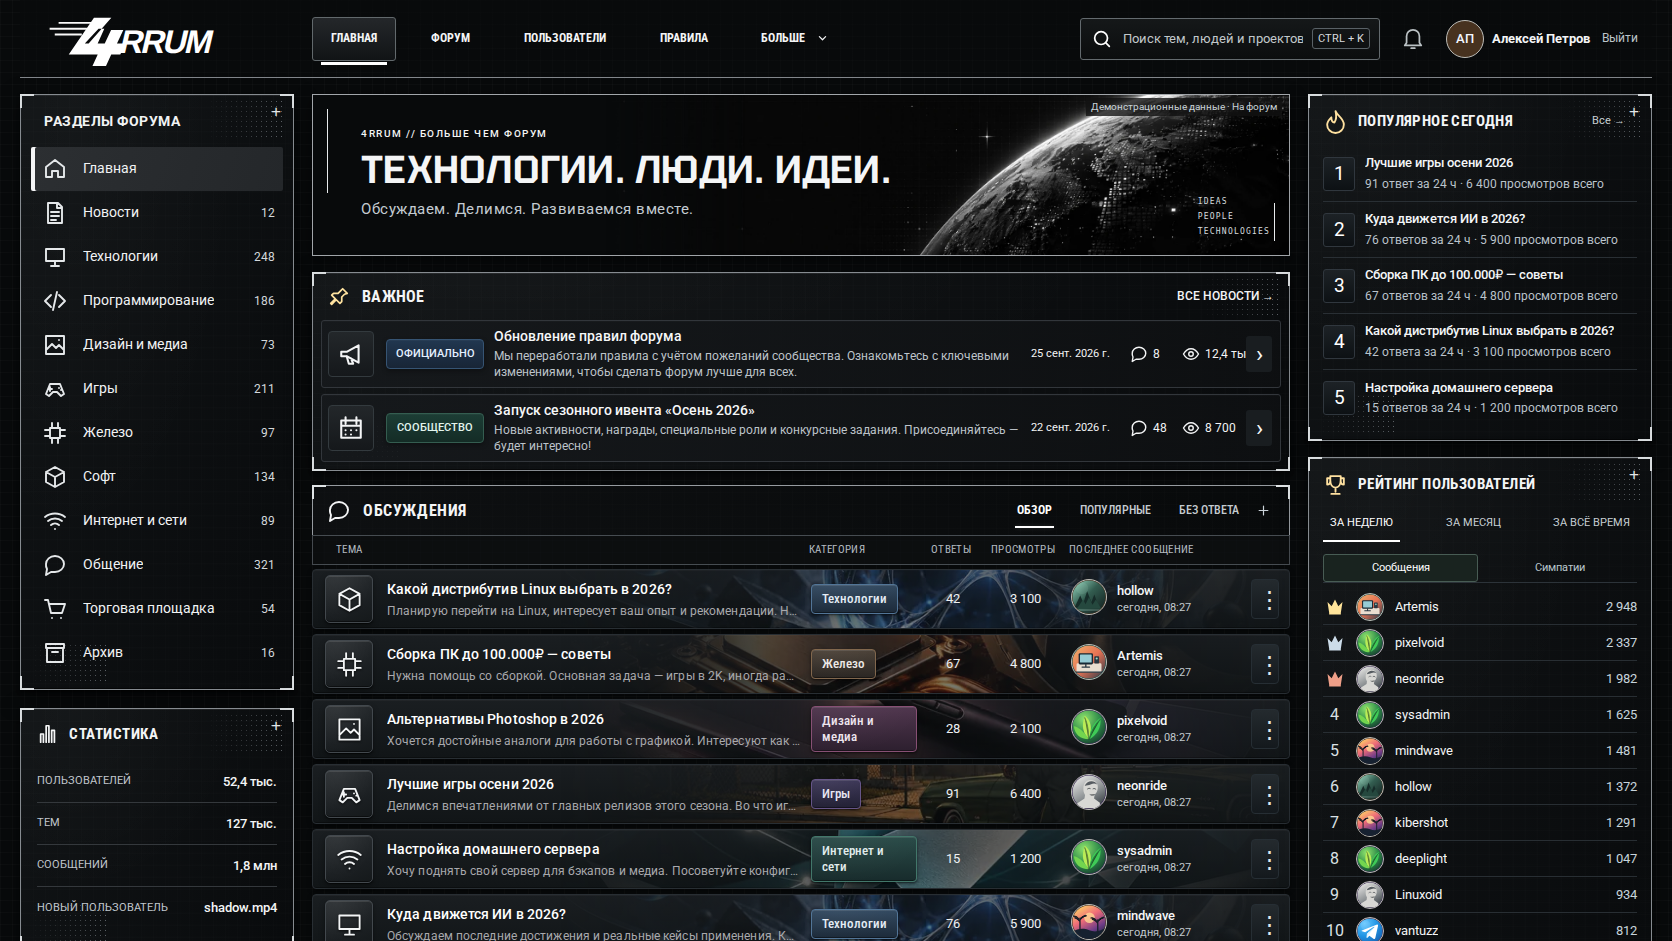
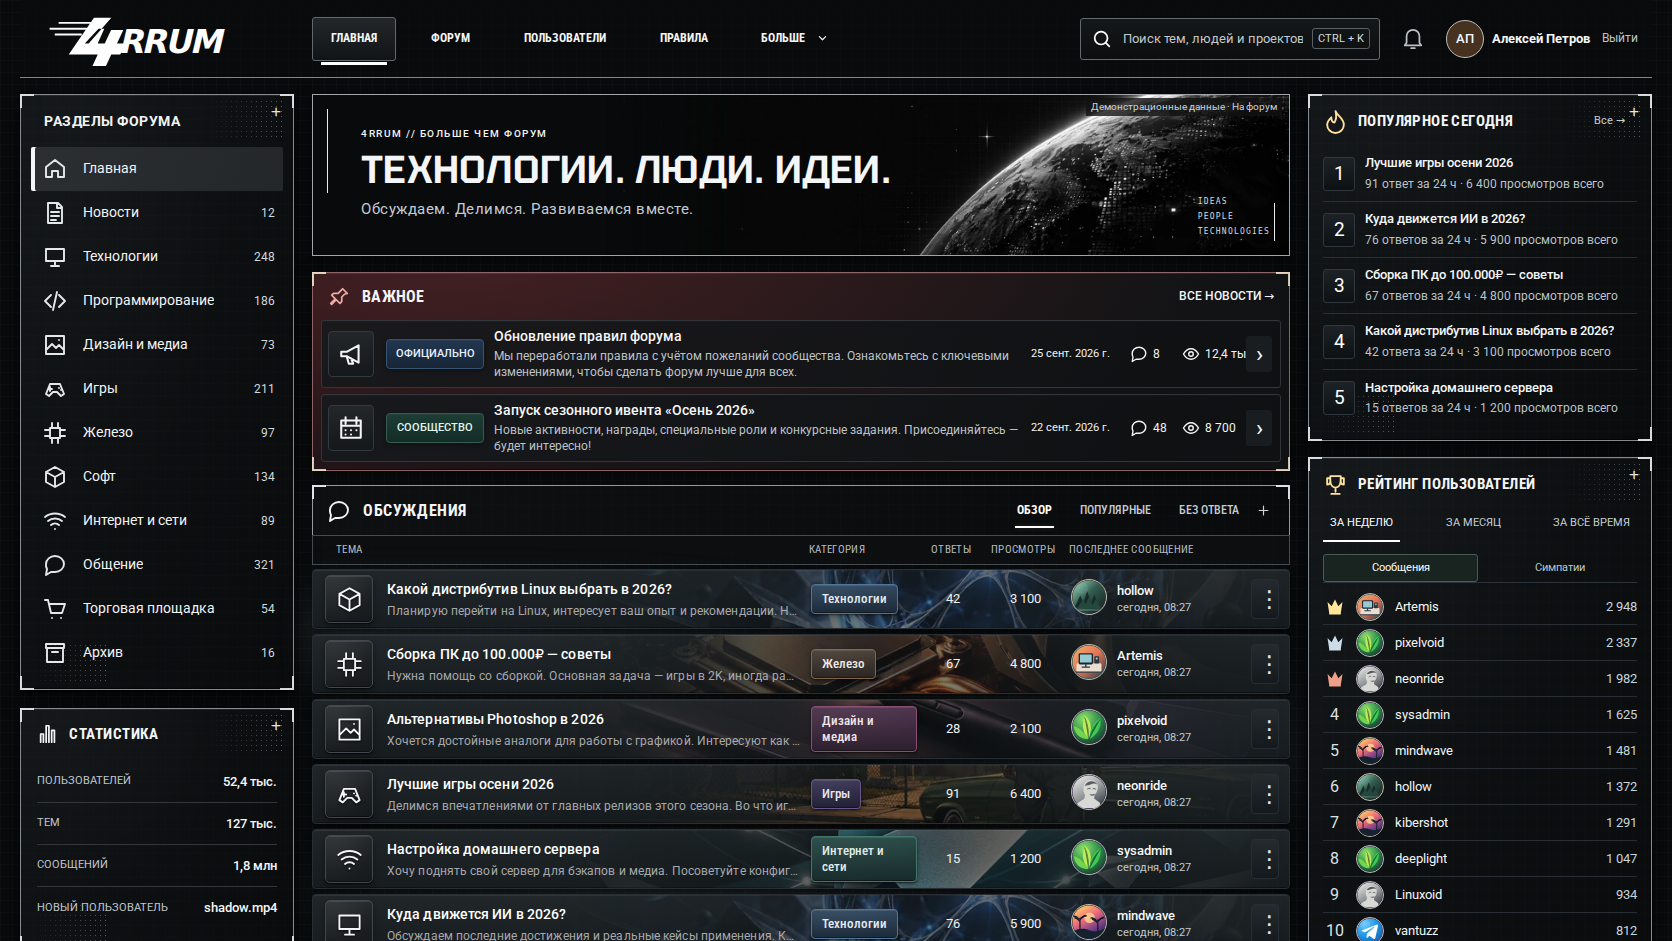
Add restrained red emphasis and diffuse light to forum feed

Changed region(s): [[0.1866, 0.2774, 0.5598, 0.4315], [0.6842, 0.3082, 0.7775, 0.339], [0.0622, 0.0308, 0.1555, 0.0616]]

diff --git a/apps/web/app/home-alpha.css b/apps/web/app/home-alpha.css
@@ -320,6 +320,9 @@ body:has(.forum-home) {background-color:#080a0b!important;background-image:linea
 .forum-home .forum-hero-copy h1 {font-family:ForumDisplay,ForumRoboto,Arial,sans-serif;font-size:39px;font-weight:600;line-height:1.08;letter-spacing:.25px;}
 .forum-home .forum-hero-kicker {font-size:10px;font-weight:500;letter-spacing:1.5px;}
 .forum-home .forum-hero-subtitle {font-size:15px;color:#c4ccd2;}
+.forum-home .forum-important {background:radial-gradient(ellipse at 18% 0, #b5444438, transparent 68%),linear-gradient(120deg,#261619f5,#111315f2 75%);border-color:#8d6569;box-shadow:inset 0 1px #f6b8b81c,inset 0 -1px #0008,0 4px 18px #0006;}
+.forum-home .forum-important::before {filter:sepia(.35) saturate(1.3);opacity:.8;}
+.forum-home .forum-important>header h2 svg {color:#efaaa4;}
 .forum-home .forum-important-row {min-height:68px;background:linear-gradient(100deg,#16191ce6,#0e1012d9);border-color:#32363b;border-radius:3px;box-shadow:inset 0 1px #ffffff05;}
 .forum-home .forum-important-text strong {color:#f6f7f8;font-size:14px;font-weight:500;margin-bottom:4px;}
 .forum-home .forum-important-text>span {color:#bec4ca;font-size:12px;line-height:1.3;}
@@ -342,8 +345,11 @@ body:has(.forum-home) {background-color:#080a0b!important;background-image:linea
 .forum-home .forum-feed-options-menu :is(a,button):hover {background:#263139;}
 .forum-home .forum-topic-columns {display:grid;grid-template-columns:minmax(0,1fr) 106px 52px 72px 170px 28px;gap:10px;min-height:30px;padding:0 12px 0 23px;border:1px solid #464c51;background:#0d1012bc;font-size:11px;color:#b5bcc2;letter-spacing:.35px;text-transform:uppercase;}
 .forum-home .forum-topic-columns span:nth-child(3),.forum-home .forum-topic-columns span:nth-child(4) {text-align:center;}
-.forum-home .forum-feed {padding:4px 0 0;gap:5px;margin:0;}
-.forum-home .forum-topic {grid-template-columns:52px minmax(0,1fr) 106px 52px 72px 170px 28px;gap:10px;min-height:60px;height:60px;padding:4px 10px 4px 12px;border:1px solid #282e33;border-radius:4px;background:linear-gradient(180deg,#1a1e21,#111517);box-shadow:inset 0 1px #ffffff09,inset 0 -1px #0005,0 2px 5px #0007;}
+.forum-home .forum-feed {position:relative;isolation:isolate;padding:4px 0 0;gap:5px;margin:0;}
+/* Stationary, diffuse light behind the rows. Negative stacking keeps menus and links clear. */
+.forum-home .forum-feed::before {content:'';position:absolute;z-index:-1;pointer-events:none;inset:0 -8px -12px;border-radius:16px;background:radial-gradient(ellipse 65% 25% at 12% 17%,#92b9ba25,transparent 80%),radial-gradient(ellipse 48% 31% at 85% 46%,#7ca4b021,transparent 80%),radial-gradient(ellipse 62% 23% at 35% 82%,#acc4b91d,transparent 80%);filter:blur(13px);}
+
+.forum-home .forum-topic {grid-template-columns:52px minmax(0,1fr) 106px 52px 72px 170px 28px;gap:10px;min-height:60px;height:60px;padding:4px 10px 4px 12px;border:1px solid #282e33;border-radius:4px;background:linear-gradient(180deg,#22282be8,#171d20e8);box-shadow:inset 0 1px #ffffff12,inset 0 -1px #0005,0 2px 5px #0007;}
 .forum-home .forum-topic::after {display:block;inset:0;opacity:.62;filter:saturate(.86) brightness(.85);background-image:var(--topic-image);background-size:cover;background-position:center var(--topic-image-y,50%);mask-image:linear-gradient(90deg,transparent 25%,#0004 42%,#000 60%,#0003 85%,transparent);}
 .forum-home .forum-topic:hover,.forum-home .forum-topic:focus-within {border-color:#99b8cf;box-shadow:inset 0 1px #b9ddf530,0 0 0 1px #97b9d030,0 2px 8px #0009;}
 .forum-home .forum-topic:is(.is-unread,.is-updated)::before {top:4px;bottom:4px;width:3px;box-shadow:0 0 8px #73cbb780;}
@@ -464,3 +470,5 @@ body:has(.forum-home) {background-color:#080a0b!important;background-image:linea
  .forum-home .forum-topic-path {font-size:10px;line-height:14px;}
  .forum-home .forum-topic-excerpt {display:block;white-space:nowrap;line-height:16px;}
 }
+
+@media (forced-colors:active) {.forum-home .forum-feed::before {display:none;}.forum-home .forum-important {background:Canvas;border-color:CanvasText;}}

diff --git a/apps/web/components/reference-home.tsx b/apps/web/components/reference-home.tsx
@@ -267,7 +267,7 @@ export function HomeDashboard({ initialData, demo = false }: { initialData: Home
  const visible = tab === 'new' && !community ? diverseTopics(matchingTopics, item => topicBackdrop(item.community.slug, item.community.name)) : matchingTopics;
  const news = initialData.announcements?.slice(0, 4) ?? [];
  const important = [...news.slice(0,2), ...topics.filter(item => item.isOfficial && item.pinnedUntil && Date.parse(item.pinnedUntil)>Date.now() && !news.some(row => row.id === item.id))].slice(0,2);
- return <div id="top" className={`forum-home ${viewer === 'guest' ? 'is-guest' : ''}`} data-home-reference="v49" data-home-revision="v83" onClickCapture={demo ? event=>{const link=(event.target as HTMLElement).closest('a');if(link && link.getAttribute('href')!=='/')event.preventDefault();} : undefined}>
+ return <div id="top" className={`forum-home ${viewer === 'guest' ? 'is-guest' : ''}`} data-home-reference="v49" data-home-revision="v84" onClickCapture={demo ? event=>{const link=(event.target as HTMLElement).closest('a');if(link && link.getAttribute('href')!=='/')event.preventDefault();} : undefined}>
   {!demo && <HomeWebVitals/>}
   <aside ref={sidebarRef} className={`forum-sidebar ${sidebar ? 'is-open' : ''}`} aria-label="Навигация форума">
    <button type="button" className="forum-sidebar-close" onClick={()=>setSidebar(false)} aria-label="Закрыть меню"><Icon name="close"/></button>
